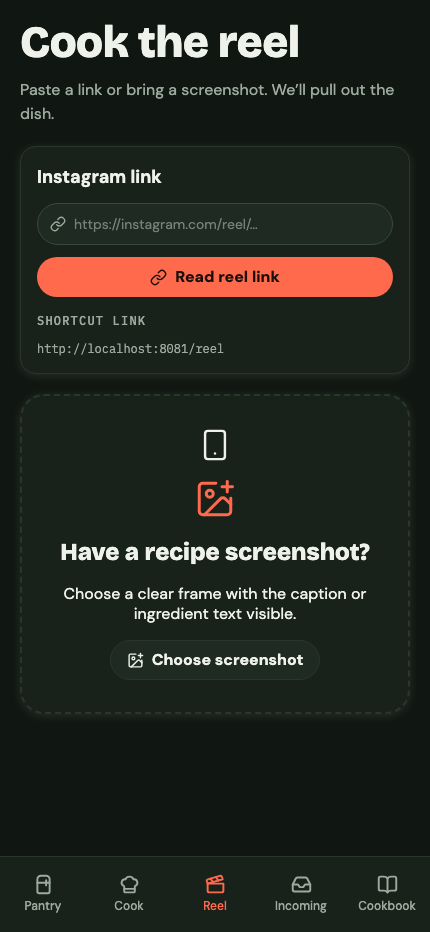
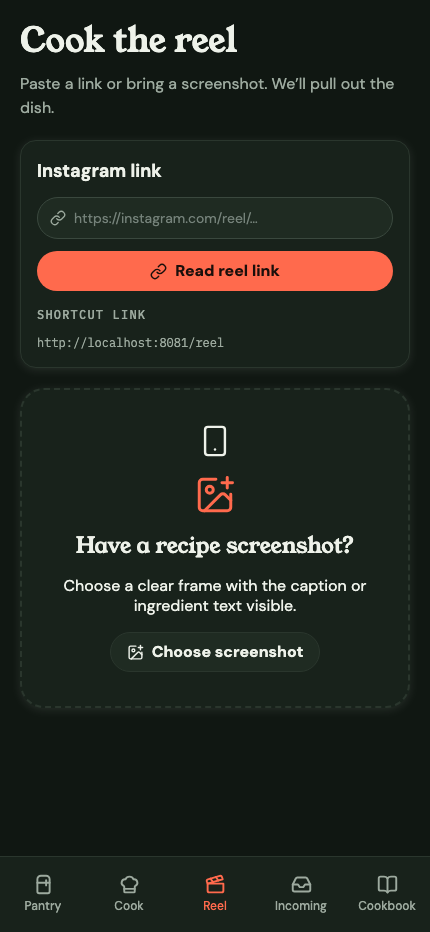
style: switch display headers to Young Serif
Bricolage 800 read as heavy and shouty; Young Serif gives headers a warmer cookbook feel. Header meta is now baseline-aligned with the title.

Generated with [Devin](https://devin.ai)

diff --git a/app/recipe.tsx b/app/recipe.tsx
@@ -132,7 +132,7 @@ export default function RecipeScreen() {
     return (
       <Screen scroll={false}>
         <View className="flex-1 items-center justify-center gap-3 p-8">
-          <Text className="font-display text-2xl">No recipe selected</Text>
+          <Text variant="display-md">No recipe selected</Text>
           <Button variant="ghost" onPress={() => router.back()}><Text>Go back</Text></Button>
         </View>
       </Screen>
@@ -157,11 +157,11 @@ export default function RecipeScreen() {
         )}
 
         <Card className="flex-row items-center gap-3 rounded-2xl border-0 bg-success-soft p-4 shadow-none">
-          <Text className="font-display text-4xl text-success">{have.length}</Text>
+          <Text variant="display-lg" tone="success">{have.length}</Text>
           <View><Text className="font-sans-bold">{have.length === 1 ? 'ingredient' : 'ingredients'}</Text><Text variant="muted">already in your pantry</Text></View>
         </Card>
 
-        <Text className="font-display text-2xl">Ingredients</Text>
+        <Text variant="display-md">Ingredients</Text>
         <Card className="gap-3 rounded-2xl border-border bg-card p-4">
           <Text className="font-mono-medium text-xs uppercase tracking-widest text-success">You have</Text>
           {have.length === 0 && <Text variant="muted">Nothing from your pantry yet.</Text>}
@@ -252,7 +252,7 @@ export default function RecipeScreen() {
           )}
         </View>
 
-        <Text className="font-display text-2xl">Method</Text>
+        <Text variant="display-md">Method</Text>
         <View className="gap-3">
           {recipe.steps.map((step, index) => (
             <View className="flex-row items-start gap-3" key={`${index}-${step}`} testID="method-step">

diff --git a/e2e/visual.spec.ts b/e2e/visual.spec.ts
@@ -55,6 +55,7 @@ async function loadUntil(
     await page.goto(route);
     await page.waitForLoadState('networkidle');
     await page.addStyleTag({ content: '#error-toast { display: none !important; }' });
+    await page.evaluate(() => document.getElementById('error-toast')?.remove());
     try {
       await assertion();
       return;
@@ -69,10 +70,14 @@ async function loadUntil(
 for (const mode of ['light', 'dark'] as const) {
   test(`style guide ${mode}`, async ({ page }) => {
     await page.emulateMedia({ colorScheme: mode });
-    await page.goto('/dev/design');
-    await page.waitForLoadState('networkidle');
-    await page.addStyleTag({ content: '#error-toast { display: none !important; }' });
-    await expect(page.getByText('Market Stall', { exact: true })).toBeVisible();
+    await loadUntil(page, '/dev/design', () => expect(page.getByText('Market Stall', { exact: true })).toBeVisible());
+    await page.evaluate(() => {
+      const scroll = document.getElementById('design-scroll');
+      if (!(scroll instanceof HTMLElement)) return;
+      scroll.style.height = `${scroll.scrollHeight}px`;
+      scroll.style.maxHeight = 'none';
+      scroll.style.overflow = 'visible';
+    });
     await expect(page).toHaveScreenshot(`styleguide-${mode}.png`, { fullPage: true });
   });
 

diff --git a/app/(tabs)/reel.tsx b/app/(tabs)/reel.tsx
@@ -165,7 +165,7 @@ export default function ReelScreen() {
         <Card className="min-h-80 items-center justify-center gap-4 rounded-xl border-2 border-dashed border-border bg-muted/50 p-7">
           <Smartphone color={colors.text} size={34} strokeWidth={1.7} />
           <ImagePlus color={colors.primary} size={42} strokeWidth={1.7} />
-          <Text className="font-display text-2xl text-center">Have a recipe screenshot?</Text>
+          <Text variant="display-md" className="text-center">Have a recipe screenshot?</Text>
           <Text variant="muted" className="text-center leading-5">
             Choose a clear frame with the caption or ingredient text visible.
           </Text>
@@ -179,7 +179,7 @@ export default function ReelScreen() {
         {recipe && (
           <View className="gap-3">
             <View className="flex-row items-baseline justify-between">
-              <Text className="font-display text-2xl">Here’s the dish</Text>
+              <Text variant="display-md">Here’s the dish</Text>
               <Text variant="muted">Compared with your pantry</Text>
             </View>
             <RecipeCard

diff --git a/app/_layout.tsx b/app/_layout.tsx
@@ -1,9 +1,5 @@
 import { useFonts } from 'expo-font';
 import {
-  BricolageGrotesque_700Bold,
-  BricolageGrotesque_800ExtraBold,
-} from '@expo-google-fonts/bricolage-grotesque';
-import {
   DMSans_400Regular,
   DMSans_500Medium,
   DMSans_700Bold,
@@ -12,6 +8,7 @@ import {
   IBMPlexMono_400Regular,
   IBMPlexMono_500Medium,
 } from '@expo-google-fonts/ibm-plex-mono';
+import { YoungSerif_400Regular } from '@expo-google-fonts/young-serif';
 import { Stack, ThemeProvider } from 'expo-router';
 import { PortalHost } from '@rn-primitives/portal';
 import * as SplashScreen from 'expo-splash-screen';
@@ -34,13 +31,12 @@ SplashScreen.preventAutoHideAsync();
 
 export default function RootLayout() {
   const [loaded, error] = useFonts({
-    BricolageGrotesque_700Bold,
-    BricolageGrotesque_800ExtraBold,
     DMSans_400Regular,
     DMSans_500Medium,
     DMSans_700Bold,
     IBMPlexMono_400Regular,
     IBMPlexMono_500Medium,
+    YoungSerif_400Regular,
   });
 
   // Expo Router uses Error Boundaries to catch errors in the navigation tree.

diff --git a/lib/design/tokens.js b/lib/design/tokens.js
@@ -7,9 +7,9 @@
  */
 
 const typeRoles = {
-  'display-xl': { fontFamily: 'BricolageGrotesque_800ExtraBold', size: 44, lineHeight: 46, letterSpacing: -0.5 },
-  'display-lg': { fontFamily: 'BricolageGrotesque_800ExtraBold', size: 34, lineHeight: 38, letterSpacing: -0.3 },
-  'display-md': { fontFamily: 'BricolageGrotesque_700Bold', size: 26, lineHeight: 30, letterSpacing: -0.2 },
+  'display-xl': { fontFamily: 'YoungSerif_400Regular', size: 34, lineHeight: 40, letterSpacing: -0.2 },
+  'display-lg': { fontFamily: 'YoungSerif_400Regular', size: 28, lineHeight: 34, letterSpacing: -0.2 },
+  'display-md': { fontFamily: 'YoungSerif_400Regular', size: 22, lineHeight: 28, letterSpacing: -0.1 },
   title: { fontFamily: 'DMSans_700Bold', size: 20, lineHeight: 26, letterSpacing: 0 },
   'body-lg': { fontFamily: 'DMSans_400Regular', size: 17, lineHeight: 24, letterSpacing: 0 },
   body: { fontFamily: 'DMSans_400Regular', size: 15, lineHeight: 22, letterSpacing: 0 },

diff --git a/app/(tabs)/index.tsx b/app/(tabs)/index.tsx
@@ -186,7 +186,7 @@ export default function PantryScreen() {
           <Card className="gap-4 rounded-xl border-border bg-card p-5">
             <View className="flex-row items-center justify-between">
               <View>
-                <Text className="font-display text-2xl">Found {detected.length} items</Text>
+                <Text variant="display-md">Found {detected.length} items</Text>
                 <Text variant="muted">Tap an item to leave it out.</Text>
               </View>
               <Button variant="ghost" size="sm" onPress={() => setDetected([])}><Text>Discard</Text></Button>

diff --git a/app/(tabs)/cook.tsx b/app/(tabs)/cook.tsx
@@ -55,7 +55,7 @@ export default function CookScreen() {
         {recipes.length > 0 && (
           <View className="gap-3">
             <View className="flex-row items-baseline justify-between">
-              <Text className="font-display text-2xl">Best matches</Text>
+              <Text variant="display-md">Best matches</Text>
               <Text className="font-mono text-xs text-muted-foreground">Ranked for you</Text>
             </View>
             {recipes.map((recipe, index) => (

diff --git a/app/cook-mode.tsx b/app/cook-mode.tsx
@@ -30,7 +30,7 @@ export default function CookModeScreen() {
     return (
       <Screen scroll={false}>
         <View className="flex-1 items-center justify-center gap-3 p-8">
-          <Text className="font-display text-2xl">No recipe selected</Text>
+          <Text variant="display-md">No recipe selected</Text>
           <Button variant="ghost" onPress={() => router.back()}><Text>Go back</Text></Button>
         </View>
       </Screen>

diff --git a/tailwind.config.js b/tailwind.config.js
@@ -79,8 +79,8 @@ module.exports = {
         ])
       ),
       fontFamily: {
-        display: ['BricolageGrotesque_800ExtraBold'],
-        'display-bold': ['BricolageGrotesque_700Bold'],
+        display: ['YoungSerif_400Regular'],
+        'display-bold': ['YoungSerif_400Regular'],
         sans: ['DMSans_400Regular'],
         'sans-medium': ['DMSans_500Medium'],
         'sans-bold': ['DMSans_700Bold'],

diff --git a/components/layout/Screen.tsx b/components/layout/Screen.tsx
@@ -46,7 +46,7 @@ export function ScreenHeader({
   title: string;
 }) {
   return (
-    <View className="flex-row items-end justify-between gap-3">
+    <View className="flex-row items-baseline justify-between gap-3">
       <View className="min-w-0 flex-1 gap-1">
         {eyebrow && <TextLabel>{eyebrow}</TextLabel>}
         <TextDisplay>{title}</TextDisplay>

diff --git a/docs/design/directions-brief.md b/docs/design/directions-brief.md
@@ -23,7 +23,7 @@ Every direction renders the **same sample set** with the same real content, in l
 - Thesis: a farmers-market stall: fresh produce colors, produce-sticker labels.
 - Palette light: bg `#F6F7F1`, surface `#FFFFFF`, ink `#16211A`, muted `#5D6B61`, border `#DCE3D8`, leaf (have) `#2F8F4E`, butter (partial/price) `#F4C842`, tomato (primary/need) `#E8482A`, danger `#C8243B` (raspberry, distinct from tomato).
 - Palette dark: bg `#101712`, surface `#18221B`, ink `#EEF2EA`, muted `#9DAA9F`, border `#2A362D`, leaf `#5BC27C`, butter `#F7D560`, tomato `#FF6A4D`, danger `#FF5C77`.
-- Type: Bricolage Grotesque 800 display (headers only), DM Sans body, IBM Plex Mono numerics/labels.
+- Type: Young Serif display (headers only), DM Sans body, IBM Plex Mono numerics/labels.
 - Shape: cards 16, controls full pill.
 - Signature: **produce-sticker chips** — have/partial/need and price shown as small oval stickers with a slight rotation (−2°..2°), like PLU stickers on fruit.
 - Motion character: soft-bouncy (smooth spring default, bouncy for stickers landing).

diff --git a/docs/design/tokens-spec.md b/docs/design/tokens-spec.md
@@ -35,9 +35,9 @@ Product aliases: `have`→success, `partial`→warning, `need`→primary, `price
 ## Type roles (font file, size/line-height px, letter-spacing px)
 | role | font | size/lh | tracking | case |
 |---|---|---|---|---|
-| display-xl | BricolageGrotesque_800ExtraBold | 44/46 | -0.5 | |
-| display-lg | BricolageGrotesque_800ExtraBold | 34/38 | -0.3 | |
-| display-md | BricolageGrotesque_700Bold | 26/30 | -0.2 | |
+| display-xl | YoungSerif_400Regular | 34/40 | -0.2 | |
+| display-lg | YoungSerif_400Regular | 28/34 | -0.2 | |
+| display-md | YoungSerif_400Regular | 22/28 | -0.1 | |
 | title | DMSans_700Bold | 20/26 | 0 | |
 | body-lg | DMSans_400Regular | 17/24 | 0 | |
 | body | DMSans_400Regular | 15/22 | 0 | |
